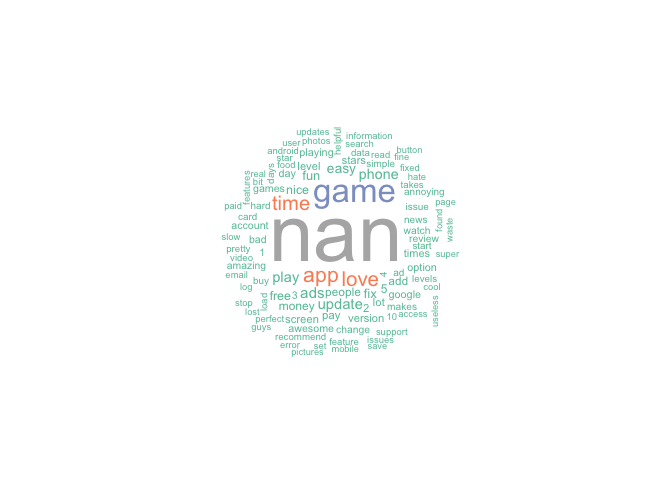
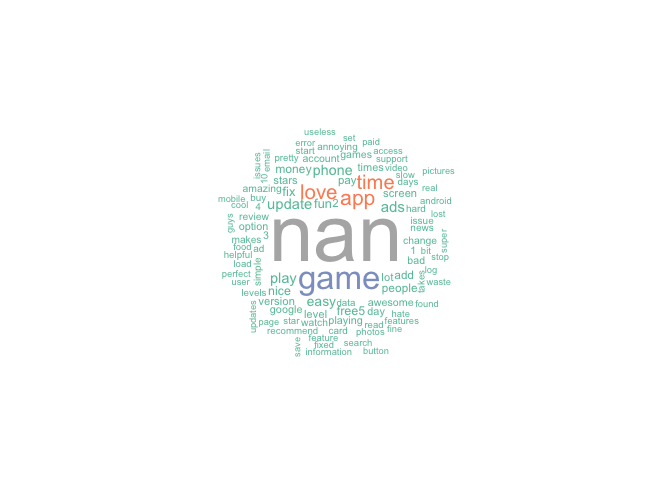
update

Changed region(s): [[0.3125, 0.25, 0.6875, 0.75]]

diff --git a/README.md b/README.md
@@ -1,6 +1,6 @@
 Data Science Test
 ================
-2023-06-15
+2023-06-16
 
 # The purpose of this README is to show my solutions to the Data science 871 exam.
 
@@ -14,11 +14,27 @@ suppressMessages(library(wordcloud))
 suppressMessages(library(RColorBrewer))
 ```
 
+The next thing I did was create this folder, specifically the
+21075492.Rproj and corresponding folders, as well as the sub-directories
+for each question. These also have their own projects. Within those
+folders you will find, amongst other things, a) pdfs with the answers to
+the relevant questions, b) a code folder.
+
 # Question 1
+
+This question was with regards to the COVID-19 Pandemic. I answered this
+question in three parts
 
 ``` r
 source("/Users/sahilbhugwan/Downloads/Data science/21075492/Q1/code/Q1.R")
 ```
+
+First: i looked at how Africa countries did compared to different
+regions. My thinking was i would look at the average deaths in Africa
+compared to Europe. This is because Africa is generally considered to be
+a third world country compared that to most European countries.However
+from the graph below it is clear that Africa had on average less deaths
+than Europe.
 
 Comparing average deaths in Africa to Europe
 
@@ -28,7 +44,12 @@ AVD
 
 ![](README_files/figure-gfm/unnamed-chunk-3-1.png)<!-- -->
 
-Testing and positivity rates in Africa compared to other regions
+Next i looked Testing and positivity rates in Africa compared to other
+regions. The percent positive will be high if the number of positive
+tests is too high, or if the number of total tests is too low. A higher
+percent positive suggests higher transmission and that there are likely
+more people with coronavirus in the community who haven’t been tested
+yet.
 
 ``` r
 TP
@@ -36,7 +57,9 @@ TP
 
 ![](README_files/figure-gfm/unnamed-chunk-4-1.png)<!-- -->
 
-healthcare capacity : ICU patients
+Next i looked at healthcare capacity to ICU patients. This is because
+when COVID hit many hospitals couldn’t keep up with the increase in ICU
+patients which meant they lacked the necssary equiment.
 
 ``` r
 HCC
@@ -44,7 +67,9 @@ HCC
 
 ![](README_files/figure-gfm/unnamed-chunk-5-1.png)<!-- -->
 
-Perform analysis based on life expectancy
+The second part: i looked at to see that if a person got COVID would
+they be at risk. It is clear that those that the older people where more
+at risk. This is due to the fact that they have weaker immmune systems.
 
 ``` r
 LE
@@ -52,15 +77,29 @@ LE
 
 ![](README_files/figure-gfm/unnamed-chunk-6-1.png)<!-- -->
 
-Hospitalization Facilities vs. ICU Admissions
+The third part: i looked at different regions hospitalization
+facilities, and whether this led or lagged ICU admissions.
+
+i decided to look at Hospitalization Facilities vs. ICU Admissions this
+because i wanted to see that as COVID got worse and spread more.
+Hospitals would have had to increase the facilities are make
+althernative arrangements to deal with the increased supply of sick
+people.
 
 ``` r
 HFvICU
 ```
 
-![](README_files/figure-gfm/unnamed-chunk-7-1.png)<!-- -->
-
-Impact of intervention
+![](README_files/figure-gfm/unnamed-chunk-7-1.png)<!-- --> As an
+interesting analysis i thought i would do a stringency index. The
+stringency index is a measure that quantifies the strictness of
+government policies or regulations in response to various events or
+crises such as COVID-19. The stringency index takes into account a range
+of policy indicators, such as school closures, travel restrictions,
+public event cancellations, and social distancing measures, among
+others. By combining these indicators into a single index, it provides a
+measure of the overall stringency of government actions in a particular
+region or country.
 
 ``` r
 SI
@@ -70,26 +109,36 @@ SI
 
 # Question 2
 
+In order to challenge my friend’s claim about the weather in the mid
+parts of England, I have decided to conduct an analysis using weather
+data from London.
+
 ``` r
 source("/Users/sahilbhugwan/Downloads/Data science/21075492/Q2/code/Q2.R")
 ```
 
-Line chart for Max tempretures over the years
+I first starting by showing the maximum temperature trend. The graph
+below shows where UK at heatwaves as well well as the general trend of
+the average temperature.
 
 ``` r
  print(MT)
 ```
 
-![](README_files/figure-gfm/unnamed-chunk-10-1.png)<!-- -->
-
-scatter plot for temperature vs. precipitation
+![](README_files/figure-gfm/unnamed-chunk-10-1.png)<!-- --> Given that
+it is common knowledge that is rains a lot in the UK and from the
+previous graph we can see the average trend of temperatures was
+relatively low. I decided to do a scatter plot for temperature
+vs. precipitation. (for more analysis on the precipitation i do have a
+graph for it in my Q2 pdf)
 
 ``` r
 print(TemP)
 ```
 
-![](README_files/figure-gfm/unnamed-chunk-11-1.png)<!-- --> Number of
-Days max Temp less than 21.1 degrees Celsius
+![](README_files/figure-gfm/unnamed-chunk-11-1.png)<!-- --> Next given
+that the temperature is always low i wanted to see on the in a year the
+number of days the max temperature less than 21.1 degrees Celsius.
 
 ``` r
 L21 
@@ -97,7 +146,10 @@ L21
 
 ![](README_files/figure-gfm/unnamed-chunk-12-1.png)<!-- -->
 
-Number of days with maximum temperature greater than 32.2 degrees
+Lastly my friend believes that it is mostly sunny however i wanted to
+see how many days in the year is the temperature above 32 degrees. It is
+extremely rare that they have more than two days. (I do have a graph in
+my Q2 pdf that shows the distribution of Sun duration for the year)
 
 ``` r
 M32
@@ -107,14 +159,19 @@ M32
 
 # Question 3
 
-Here we will be comparing two of the longst bands that being Coldplay
-and Metallica
+Give that Coldplay and Metallica are one of the most famous bands over
+time i wanted to see the longevity and musical progression of them
 
 ``` r
 source("/Users/sahilbhugwan/Downloads/Data science/21075492/Q3/code/Q3.R")
 ```
 
-Coldplay popular songs
+I first decided to look at Coldplay in my report (in Q3 folder ) it is
+clear that they are most popular from 2010 onwards. I then decided to do
+a graph to show there most popular songs and which album it is from. It
+is clear that after 2016 that is when Coldplay hit it speak with it most
+popular songs. (I also have a table of there most popular song an i am
+aware that my table didnt come out looking nice)
 
 ``` r
 PS(CP)
@@ -163,7 +220,9 @@ PS(CP)
     ## [16] "A Head Full of Dreams Tour Edition"       
     ## [17] "Love in Tokyo"
 
-Metallica popular songs
+I then did the same for metallica, however one key difference is that
+metallica was more popular during Metallica popular songs during that
+late 1980s.
 
 ``` r
 PS(metallica)
@@ -236,7 +295,7 @@ PS(metallica)
     ## [41] "Six Feet Down Under Part 2"                                 
     ## [42] "Six Feet Down Under"
 
-Comparing song Durations
+Next i wanted to see the difference in song length (in milliseconds)
 
 ``` r
 print(DS)
@@ -244,8 +303,10 @@ print(DS)
 
 ![](README_files/figure-gfm/unnamed-chunk-17-1.png)<!-- -->
 
-Correlation matrix based on danceability, energy, instrumentalness,
-liveness, loudness, speechiness & tempo
+Lastly given that they are two different bands they produce different
+type of music hence i decided to do a Correlation matrix based on
+danceability, energy, instrumentalness, liveness, loudness, speechiness
+& tempo
 
 ``` r
 corrplot(CMCP, method = "color") #Coldplay
@@ -261,8 +322,9 @@ corrplot::corrplot(CMM, method = "color", col = colorRampPalette(c("blue", "whit
 
 # Question 4
 
-What works in Streaming service if SU lauches its own one The full pdf
-report can be found in Q4 folder.
+my superiors at SU SU have ambitions of launching their own streaming
+service, hence i will show them what works. (The full pdf report can be
+found in Q4 folder.)
 
 ``` r
 source("/Users/sahilbhugwan/Downloads/Data science/21075492/Q4/code/Q4.R")
@@ -283,7 +345,7 @@ source("/Users/sahilbhugwan/Downloads/Data science/21075492/Q4/code/Q4.R")
     ## 10              TV-Y        299
     ## 11             TV-Y7        667
 
-The first thing to look as is netfix decline
+The first thing i did was show that netflix is haveing a decline
 
 ``` r
 print(Trends) 
@@ -292,7 +354,8 @@ print(Trends)
 ![](README_files/figure-gfm/unnamed-chunk-20-1.png)<!-- -->
 
 Next i look at the content on netflix and it is clear the movies
-dominate
+dominate. Th reason for this can be because movies you can watch in “one
+sitting” don’t need to remember what happened in previous seasons
 
 ``` r
 Pie 
@@ -307,9 +370,10 @@ illustrated it using a word cloud
 generate_wordcloud(genre_counts)
 ```
 
-![](README_files/figure-gfm/unnamed-chunk-22-1.png)<!-- -->
-
-I also looked at which stars appear most on netflix
+![](README_files/figure-gfm/unnamed-chunk-22-1.png)<!-- --> I then
+decided to look at which stars appear most on Netflix the reason for
+this is that if they have a lot of content it means that they are
+popular amongst the general public.
 
 ``` r
 plot_top_names(merged_data)
@@ -317,19 +381,21 @@ plot_top_names(merged_data)
 
 ![](README_files/figure-gfm/unnamed-chunk-23-1.png)<!-- -->
 
-Therefore if SU wants to launch its own streamig service it should look
-to produce movies that are drama or comdey based and include a high
+Therefore if SU wants to launch its own streaming service it should look
+to produce movies that are drama or comedy based and include a high
 profile actor/actress.
 
 # Question 5
 
-Here i will be looking at app size
+Here i am looking at what factors i could use for AppallingDesignes to
+create a new app.
 
 ``` r
 source("/Users/sahilbhugwan/Downloads/Data science/21075492/Q5/code/Q5.R")
 ```
 
-App ratings
+First i will be looking at the distribution of app ratings to the number
+of installs(count)
 
 ``` r
 APR
@@ -337,7 +403,9 @@ APR
 
 ![](README_files/figure-gfm/unnamed-chunk-25-1.png)<!-- -->
 
-App ratings per content
+I then will have to look at the number of installs(count) with regards
+to the age categories. It is clear that an app that is useful for
+everyone will be most benefical.
 
 ``` r
 Ratings
@@ -345,7 +413,9 @@ Ratings
 
 ![](README_files/figure-gfm/unnamed-chunk-26-1.png)<!-- -->
 
-App rating compared to last updated
+I then looked at when apps are updated to rating this is because the
+world is ever changing and peoples are consistently changing and want to
+keep up with the latest trends.
 
 ``` r
 ARLU
@@ -353,7 +423,9 @@ ARLU
 
 ![](README_files/figure-gfm/unnamed-chunk-27-1.png)<!-- -->
 
-App Size compared to rating
+Given that people have a lot of other stuff on there phone such as
+music, photos it is crucial to look at app sizes. This is because people
+will not want to install to large apps that slow down there phone.
 
 ``` r
 ARS
@@ -361,16 +433,20 @@ ARS
 
 ![](README_files/figure-gfm/unnamed-chunk-28-1.png)<!-- -->
 
-User Reviews
+I then looks at the most popular reviews left by consumers, this is to
+ensure to see what feedback they have received. given that “NAN” is the
+most common feedback it should be vital that we can find a way to get
+feedback from the users this will allow us to improve the app.
 
 ``` r
 wordcloud(term_frequency$word, term_frequency$n, scale = c(5, 0.5), max.words = 100, random.order = FALSE,
           color = brewer.pal(8, "Set2"))
 ```
 
-![](README_files/figure-gfm/unnamed-chunk-29-1.png)<!-- -->
-
-App Sentiment
+![](README_files/figure-gfm/unnamed-chunk-29-1.png)<!-- --> Lastly i
+looked at app sentiment of certain app. this will help us understand
+users feelings about why they particularly like or dislike the app’s
+offering or service.
 
 ``` r
 SDA
